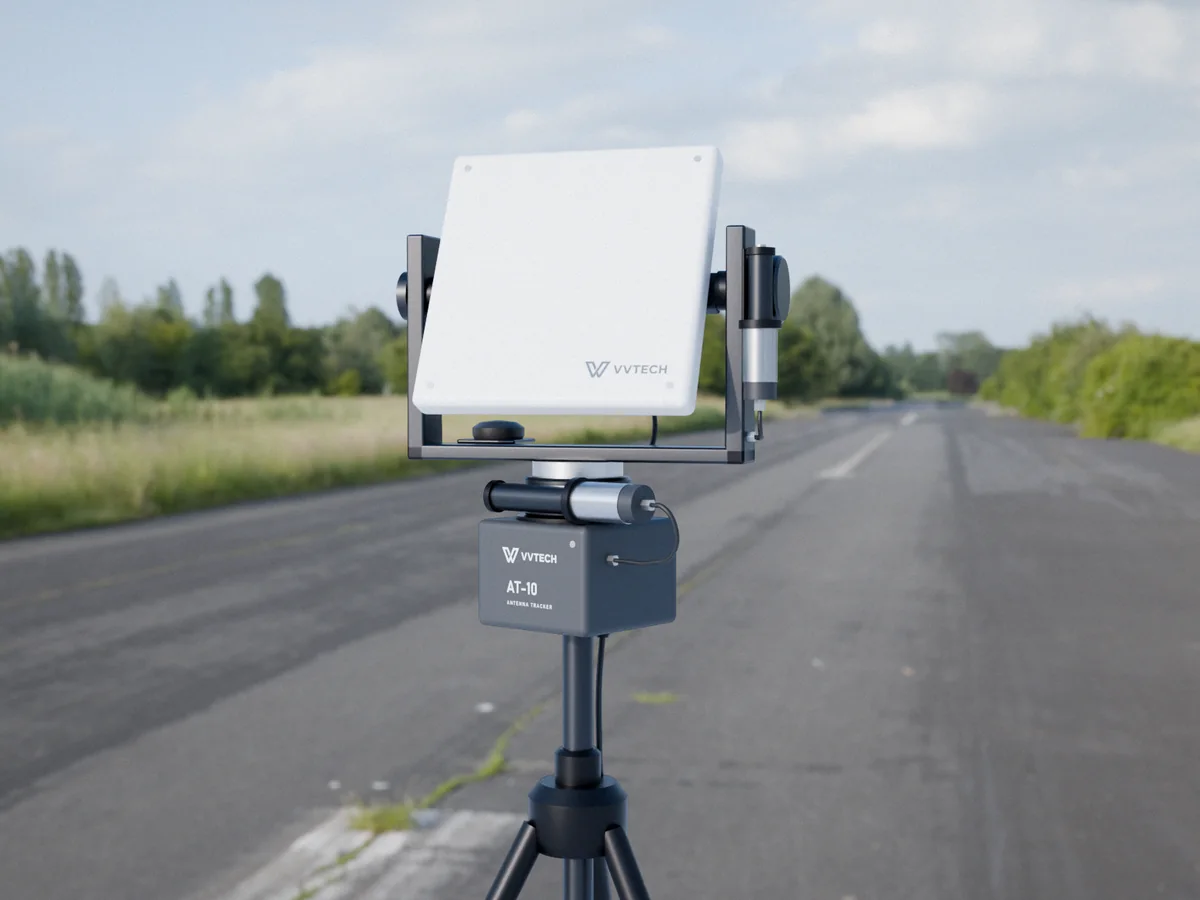
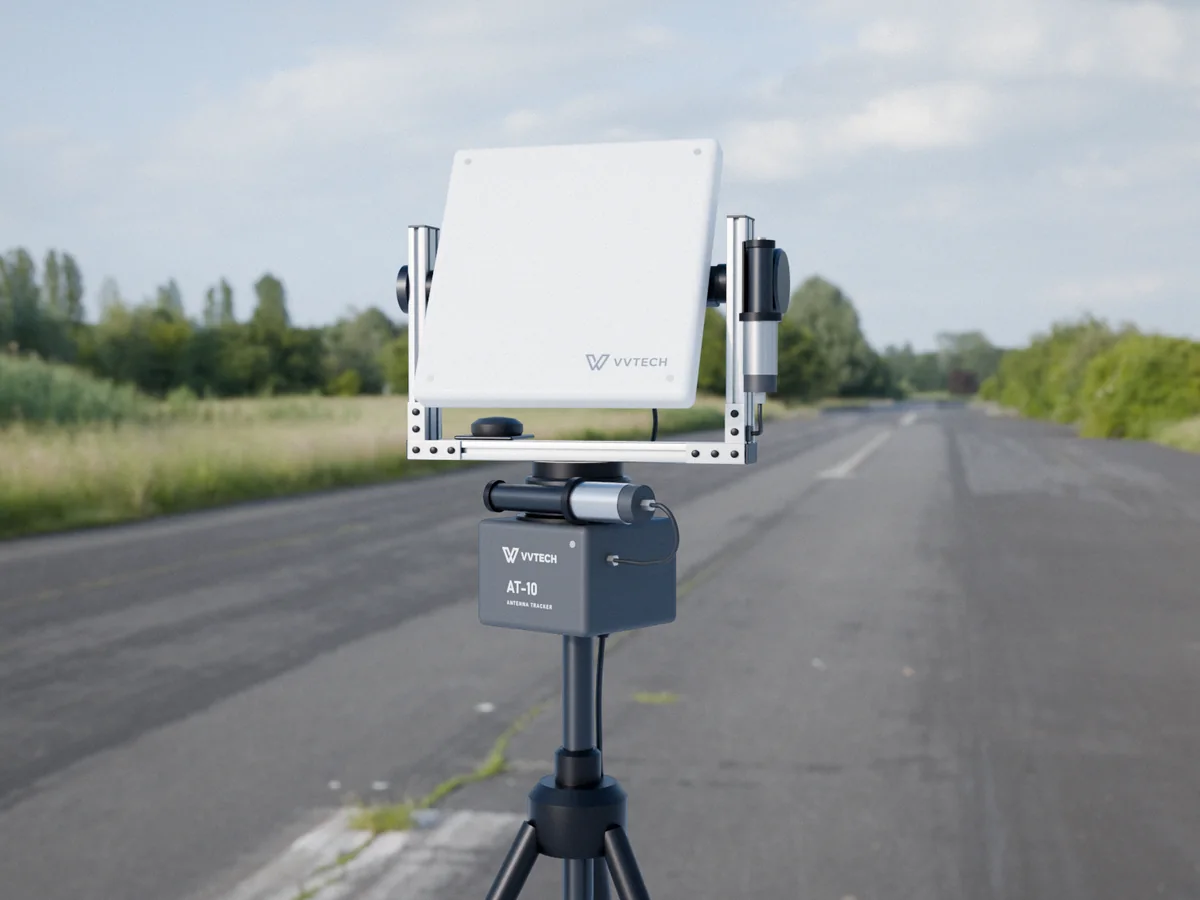
Uređaji u pripremi: ramovi od aluminijumskih profila

Changed region(s): [[0.3083, 0.2178, 0.6783, 0.56], [0.4317, 0.1556, 0.5858, 0.1867]]

diff --git a/projekti/index.html b/projekti/index.html
@@ -182,7 +182,7 @@
 
       <div class="tiles three">
         <div class="tile static" id="at-10">
-          <img class="photo" src="../assets/products/at-10.webp?v=2" alt="Uređaj za automatsko usmeravanje antene AT-10, sa pogonima na obe ose, na tronošcu" width="1200" height="900" loading="lazy">
+          <img class="photo" src="../assets/products/at-10.webp?v=3" alt="Uređaj za automatsko usmeravanje antene AT-10, sa pogonima na obe ose, na tronošcu" width="1200" height="900" loading="lazy">
           <div class="tile-body">
             <h3>AT-10 — usmeravanje antene</h3>
             <p>Pogonska glava sa motorima na obe ose, po azimutu i po elevaciji, nosi usmerenu antenu na tronošcu. Po podacima telemetrije sama prati letelicu i drži vezu na većim daljinama.</p>
@@ -190,7 +190,7 @@
           </div>
         </div>
         <div class="tile static" id="gnr-10">
-          <img class="photo" src="../assets/products/gnr-10.webp?v=2" alt="Referentna GNSS stanica GNR-10 sa dve antene na krutom nosaču" width="1200" height="900" loading="lazy">
+          <img class="photo" src="../assets/products/gnr-10.webp?v=3" alt="Referentna GNSS stanica GNR-10 sa dve antene na krutom nosaču" width="1200" height="900" loading="lazy">
           <div class="tile-body">
             <h3>GNR-10 — referentna GNSS stanica</h3>
             <p>Zemaljska referentna stanica sa dve antene na krutom nosaču, na stalnom međusobnom rastojanju. Letelici šalje RTK korekcije, po uzoru na GBAS, za položaj visoke tačnosti.</p>
@@ -198,7 +198,7 @@
           </div>
         </div>
         <div class="tile static" id="ms-10">
-          <img class="photo" src="../assets/products/ms-10.webp?v=2" alt="Prenosna meteorološka stanica MS-10 na tronošcu" width="1200" height="900" loading="lazy">
+          <img class="photo" src="../assets/products/ms-10.webp?v=3" alt="Prenosna meteorološka stanica MS-10 na tronošcu" width="1200" height="900" loading="lazy">
           <div class="tile-body">
             <h3>MS-10 — meteorološka stanica</h3>
             <p>Merenje vetra, pritiska, temperature i vlažnosti na mestu ispitivanja. Podaci stižu u zemaljsku stanicu i ulaze u obradu ispitivanja.</p>

diff --git a/en/projects/index.html b/en/projects/index.html
@@ -183,7 +183,7 @@
 
       <div class="tiles three">
         <div class="tile static" id="at-10">
-          <img class="photo" src="../../assets/products/at-10.webp?v=2" alt="AT-10 antenna tracker with a drive on each axis, on a tripod" width="1200" height="900" loading="lazy">
+          <img class="photo" src="../../assets/products/at-10.webp?v=3" alt="AT-10 antenna tracker with a drive on each axis, on a tripod" width="1200" height="900" loading="lazy">
           <div class="tile-body">
             <h3>AT-10 — antenna tracker</h3>
             <p>A two-axis head with a motor on each axis, azimuth and elevation, carrying a directional antenna on a tripod. It follows the vehicle using telemetry data and keeps the link at longer ranges.</p>
@@ -191,7 +191,7 @@
           </div>
         </div>
         <div class="tile static" id="gnr-10">
-          <img class="photo" src="../../assets/products/gnr-10.webp?v=2" alt="GNR-10 GNSS reference station with two antennas on a rigid beam" width="1200" height="900" loading="lazy">
+          <img class="photo" src="../../assets/products/gnr-10.webp?v=3" alt="GNR-10 GNSS reference station with two antennas on a rigid beam" width="1200" height="900" loading="lazy">
           <div class="tile-body">
             <h3>GNR-10 — GNSS reference station</h3>
             <p>A ground reference station with two antennas on a rigid beam, at a fixed spacing. It sends RTK corrections to the vehicle, in the manner of GBAS, for high-accuracy positioning.</p>
@@ -199,7 +199,7 @@
           </div>
         </div>
         <div class="tile static" id="ms-10">
-          <img class="photo" src="../../assets/products/ms-10.webp?v=2" alt="MS-10 portable weather station on a tripod" width="1200" height="900" loading="lazy">
+          <img class="photo" src="../../assets/products/ms-10.webp?v=3" alt="MS-10 portable weather station on a tripod" width="1200" height="900" loading="lazy">
           <div class="tile-body">
             <h3>MS-10 — weather station</h3>
             <p>Wind, pressure, temperature and humidity at the test site. The data goes to the ground station and into test data processing.</p>
